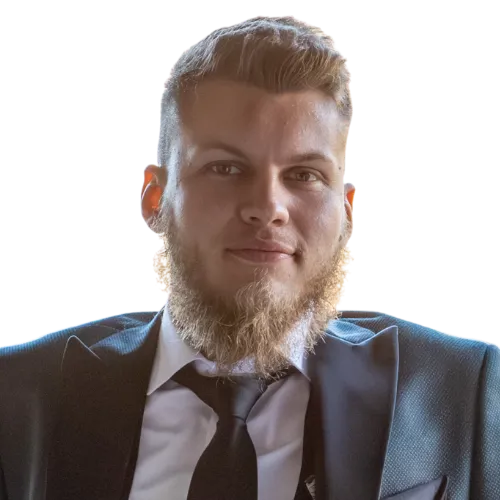
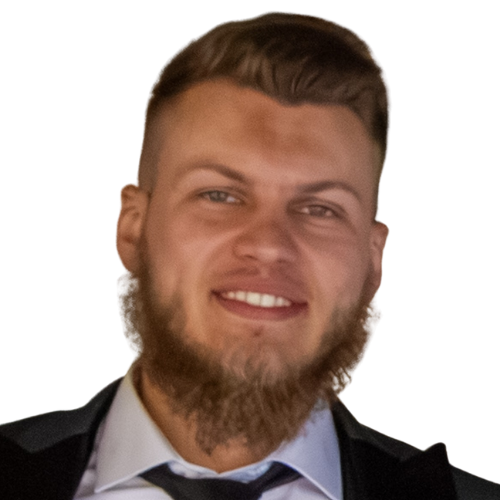
images update

diff --git a/src/app/app.html b/src/app/app.html
@@ -114,44 +114,68 @@
        ═══════════════════════════════════════════════ -->
   <section id="services" class="section services-section">
     <div class="section-container">
-      <h2 class="section-heading animate-on-scroll">
-        <span>{{ getHeaderParts('services').part1 }}</span>
-        <span>{{ getHeaderParts('services').part2 }}</span>
-      </h2>
-      <div class="services-grid">
-        @for (service of services; track service.nameBs) {
-          <div class="service-card animate-on-scroll">
-            <!-- Full background image -->
-            <img class="service-bg" [src]="service.image" [alt]="lang() === 'bs' ? service.nameBs : service.nameEn" loading="lazy">
-            <div class="service-overlay"></div>
+      <div class="services-header animate-on-scroll">
+        <h2 class="section-heading">
+          <span>{{ getHeaderParts('services').part1 }}</span>
+          <span>{{ getHeaderParts('services').part2 }}</span>
+        </h2>
+        <div class="carousel-nav">
+          <button class="carousel-arrow" (click)="scrollCarousel('servicesCarousel', 'prev')" aria-label="Previous service">
+            <svg width="20" height="20" viewBox="0 0 24 24" fill="none" stroke="currentColor" stroke-width="2"><polyline points="15 18 9 12 15 6"/></svg>
+          </button>
+          <button class="carousel-arrow" (click)="scrollCarousel('servicesCarousel', 'next')" aria-label="Next service">
+            <svg width="20" height="20" viewBox="0 0 24 24" fill="none" stroke="currentColor" stroke-width="2"><polyline points="9 18 15 12 9 6"/></svg>
+          </button>
+        </div>
+      </div>
 
-            <!-- Overlaid content at bottom -->
-            <div class="service-content">
-              <h3 class="service-title">{{ lang() === 'bs' ? service.nameBs : service.nameEn }}</h3>
-              <p class="service-desc">{{ lang() === 'bs' ? service.descBs : service.descEn }}</p>
+      <div class="services-carousel animate-on-scroll" id="servicesCarousel"
+           (scroll)="onCarouselScroll('servicesCarousel')"
+           (mouseenter)="onServicesMouseEnter()"
+           (mouseleave)="onServicesMouseLeave()"
+           (touchstart)="onServicesMouseEnter()"
+           (touchend)="onServicesTouchEnd()">
+        <div class="services-track">
+          @for (service of services; track service.nameBs) {
+            <div class="service-card">
+              <!-- Full background image -->
+              <img class="service-bg" [src]="service.image" [alt]="lang() === 'bs' ? service.nameBs : service.nameEn" loading="lazy">
+              <div class="service-overlay"></div>
 
-              <!-- Contact persons -->
-              <div class="service-contacts">
-                @for (contact of service.contacts; track contact.name) {
-                  <div class="service-contact">
-                    <img class="service-contact-photo" [src]="contact.image" [alt]="contact.name" loading="lazy">
-                    <div class="service-contact-info">
-                      <span class="service-contact-name">{{ contact.name }}</span>
-                      <span class="service-contact-role">{{ lang() === 'bs' ? contact.roleBs : contact.roleEn }}</span>
+              <!-- Overlaid content at bottom -->
+              <div class="service-content">
+                <h3 class="service-title">{{ lang() === 'bs' ? service.nameBs : service.nameEn }}</h3>
+                <p class="service-desc">{{ lang() === 'bs' ? service.descBs : service.descEn }}</p>
+
+                <!-- Contact persons -->
+                <div class="service-contacts">
+                  @for (contact of service.contacts; track contact.name) {
+                    <div class="service-contact">
+                      <img class="service-contact-photo" [src]="contact.image" [alt]="contact.name" loading="lazy">
+                      <div class="service-contact-info">
+                        <span class="service-contact-name">{{ contact.name }}</span>
+                        <span class="service-contact-role">{{ lang() === 'bs' ? contact.roleBs : contact.roleEn }}</span>
+                      </div>
+                      <div class="service-contact-btns">
+                        <a [href]="getPhoneHref(contact.phone)" class="service-btn" aria-label="Call">
+                          <svg width="14" height="14" viewBox="0 0 24 24" fill="none" stroke="currentColor" stroke-width="2"><path d="M22 16.92v3a2 2 0 01-2.18 2 19.79 19.79 0 01-8.63-3.07 19.5 19.5 0 01-6-6 19.79 19.79 0 01-3.07-8.67A2 2 0 014.11 2h3a2 2 0 012 1.72c.127.96.361 1.903.7 2.81a2 2 0 01-.45 2.11L8.09 9.91a16 16 0 006 6l1.27-1.27a2 2 0 012.11-.45c.907.339 1.85.573 2.81.7A2 2 0 0122 16.92z"/></svg>
+                        </a>
+                        <a [href]="getWhatsAppHref(contact.whatsapp)" target="_blank" rel="noopener" class="service-btn wa" aria-label="WhatsApp">
+                          <svg width="14" height="14" viewBox="0 0 24 24" fill="currentColor"><path d="M17.472 14.382c-.297-.149-1.758-.867-2.03-.967-.273-.099-.471-.148-.67.15-.197.297-.767.966-.94 1.164-.173.199-.347.223-.644.075-.297-.15-1.255-.463-2.39-1.475-.883-.788-1.48-1.761-1.653-2.059-.173-.297-.018-.458.13-.606.134-.133.298-.347.446-.52.149-.174.198-.298.298-.497.099-.198.05-.371-.025-.52-.075-.149-.669-1.612-.916-2.207-.242-.579-.487-.5-.669-.51-.173-.008-.371-.01-.57-.01-.198 0-.52.074-.792.372-.272.297-1.04 1.016-1.04 2.479 0 1.462 1.065 2.875 1.213 3.074.149.198 2.096 3.2 5.077 4.487.709.306 1.262.489 1.694.625.712.227 1.36.195 1.871.118.571-.085 1.758-.719 2.006-1.413.248-.694.248-1.289.173-1.413-.074-.124-.272-.198-.57-.347m-5.421 7.403h-.004a9.87 9.87 0 01-5.031-1.378l-.361-.214-3.741.982.998-3.648-.235-.374a9.86 9.86 0 01-1.51-5.26c.001-5.45 4.436-9.884 9.888-9.884 2.64 0 5.122 1.03 6.988 2.898a9.825 9.825 0 012.893 6.994c-.003 5.45-4.437 9.884-9.885 9.884m8.413-18.297A11.815 11.815 0 0012.05 0C5.495 0 .16 5.335.157 11.892c0 2.096.547 4.142 1.588 5.945L.057 24l6.305-1.654a11.882 11.882 0 005.683 1.448h.005c6.554 0 11.89-5.335 11.893-11.893a11.821 11.821 0 00-3.48-8.413z"/></svg>
+                        </a>
+                      </div>
                     </div>
-                    <div class="service-contact-btns">
-                      <a [href]="getPhoneHref(contact.phone)" class="service-btn" aria-label="Call">
-                        <svg width="14" height="14" viewBox="0 0 24 24" fill="none" stroke="currentColor" stroke-width="2"><path d="M22 16.92v3a2 2 0 01-2.18 2 19.79 19.79 0 01-8.63-3.07 19.5 19.5 0 01-6-6 19.79 19.79 0 01-3.07-8.67A2 2 0 014.11 2h3a2 2 0 012 1.72c.127.96.361 1.903.7 2.81a2 2 0 01-.45 2.11L8.09 9.91a16 16 0 006 6l1.27-1.27a2 2 0 012.11-.45c.907.339 1.85.573 2.81.7A2 2 0 0122 16.92z"/></svg>
-                      </a>
-                      <a [href]="getWhatsAppHref(contact.whatsapp)" target="_blank" rel="noopener" class="service-btn wa" aria-label="WhatsApp">
-                        <svg width="14" height="14" viewBox="0 0 24 24" fill="currentColor"><path d="M17.472 14.382c-.297-.149-1.758-.867-2.03-.967-.273-.099-.471-.148-.67.15-.197.297-.767.966-.94 1.164-.173.199-.347.223-.644.075-.297-.15-1.255-.463-2.39-1.475-.883-.788-1.48-1.761-1.653-2.059-.173-.297-.018-.458.13-.606.134-.133.298-.347.446-.52.149-.174.198-.298.298-.497.099-.198.05-.371-.025-.52-.075-.149-.669-1.612-.916-2.207-.242-.579-.487-.5-.669-.51-.173-.008-.371-.01-.57-.01-.198 0-.52.074-.792.372-.272.297-1.04 1.016-1.04 2.479 0 1.462 1.065 2.875 1.213 3.074.149.198 2.096 3.2 5.077 4.487.709.306 1.262.489 1.694.625.712.227 1.36.195 1.871.118.571-.085 1.758-.719 2.006-1.413.248-.694.248-1.289.173-1.413-.074-.124-.272-.198-.57-.347m-5.421 7.403h-.004a9.87 9.87 0 01-5.031-1.378l-.361-.214-3.741.982.998-3.648-.235-.374a9.86 9.86 0 01-1.51-5.26c.001-5.45 4.436-9.884 9.888-9.884 2.64 0 5.122 1.03 6.988 2.898a9.825 9.825 0 012.893 6.994c-.003 5.45-4.437 9.884-9.885 9.884m8.413-18.297A11.815 11.815 0 0012.05 0C5.495 0 .16 5.335.157 11.892c0 2.096.547 4.142 1.588 5.945L.057 24l6.305-1.654a11.882 11.882 0 005.683 1.448h.005c6.554 0 11.89-5.335 11.893-11.893a11.821 11.821 0 00-3.48-8.413z"/></svg>
-                      </a>
-                    </div>
-                  </div>
-                }
+                  }
+                </div>
               </div>
             </div>
-          </div>
+          }
+        </div>
+      </div>
+
+      <div class="carousel-dots animate-on-scroll">
+        @for (service of services; track service.nameBs; let i = $index) {
+          <button class="carousel-dot" [class.active]="activeServiceIndex() === i" (click)="goToSlide('servicesCarousel', i)" [attr.aria-label]="'Go to service ' + (i + 1)"></button>
         }
       </div>
     </div>

diff --git a/src/app/app.ts b/src/app/app.ts
@@ -268,7 +268,7 @@ const SERVICES: Service[] = [
         roleEn: 'Upholstery Specialist',
         phone: '+387 61 823 875',
         whatsapp: '38761823875',
-        image: 'assets/staff/3.png',
+        image: 'assets/staff/4.png',
       },
     ],
   },
@@ -283,10 +283,10 @@ interface Stat {
 }
 
 const STATS: Stat[] = [
-  { value: 5, suffix: '+', labelBs: 'Godina iskustva', labelEn: 'Years Experience' },
+  { value: 30, suffix: '+', labelBs: 'Godina iskustva', labelEn: 'Years Experience' },
   { value: 4, suffix: '', labelBs: 'Usluge', labelEn: 'Services' },
   { value: 5, suffix: '.0', labelBs: 'Google ocjena', labelEn: 'Google Rating' },
-  { value: 1000, suffix: '+', labelBs: 'Zadovoljnih klijenata', labelEn: 'Happy Clients' },
+  { value: 5000, suffix: '+', labelBs: 'Zadovoljnih klijenata', labelEn: 'Happy Clients' },
 ];
 
 @Component({
@@ -303,6 +303,10 @@ export class App implements AfterViewInit, OnDestroy {
   private autoPlayInterval: ReturnType<typeof setInterval> | null = null;
   private autoPlayResumeTimeout: ReturnType<typeof setTimeout> | null = null;
   private autoPlayPaused = false;
+  private servicesAutoPlayInterval: ReturnType<typeof setInterval> | null = null;
+  private servicesAutoPlayResumeTimeout: ReturnType<typeof setTimeout> | null = null;
+  private servicesAutoPlayPaused = false;
+  private servicesDesktopMq: MediaQueryList | null = null;
 
   // ── State ──
   lang = signal<'bs' | 'en'>('bs');
@@ -386,8 +390,9 @@ export class App implements AfterViewInit, OnDestroy {
     // Header scroll listener + back-to-top
     window.addEventListener('scroll', this.onScroll, { passive: true });
 
-    // Auto-play carousel
+    // Auto-play carousels
     this.startAutoPlay();
+    this.setupServicesAutoPlay();
   }
 
   ngOnDestroy(): void {
@@ -395,9 +400,12 @@ export class App implements AfterViewInit, OnDestroy {
     this.statsObserver?.disconnect();
     if (isPlatformBrowser(this.platformId)) {
       window.removeEventListener('scroll', this.onScroll);
+      this.teardownServicesAutoPlay();
     }
     this.stopAutoPlay();
     this.clearAutoPlayResumeTimeout();
+    this.stopServicesAutoPlay();
+    this.clearServicesAutoPlayResumeTimeout();
   }
 
   // ── Methods ──
@@ -554,12 +562,17 @@ export class App implements AfterViewInit, OnDestroy {
   // ── Carousel Navigation ──
   activeReviewIndex = signal(0);
   activeGalleryIndex = signal(0);
+  activeServiceIndex = signal(0);
+
+  private getCarouselTrack(carousel: Element): HTMLElement | null {
+    return carousel.querySelector('.reviews-track, .gallery-track, .services-track') as HTMLElement | null;
+  }
 
   scrollCarousel(carouselId: string, direction: 'prev' | 'next'): void {
     const carousel = this.el.nativeElement.querySelector(`#${carouselId}`);
     if (!carousel) return;
 
-    const track = carousel.querySelector('.reviews-track, .gallery-track') as HTMLElement;
+    const track = this.getCarouselTrack(carousel);
     if (!track) return;
 
     const firstChild = track.firstElementChild as HTMLElement;
@@ -584,7 +597,7 @@ export class App implements AfterViewInit, OnDestroy {
     const carousel = this.el.nativeElement.querySelector(`#${carouselId}`);
     if (!carousel) return;
 
-    const track = carousel.querySelector('.reviews-track, .gallery-track') as HTMLElement;
+    const track = this.getCarouselTrack(carousel);
     if (!track) return;
 
     const firstChild = track.firstElementChild as HTMLElement;
@@ -597,6 +610,8 @@ export class App implements AfterViewInit, OnDestroy {
 
     if (carouselId === 'reviewsCarousel') {
       this.activeReviewIndex.set(index);
+    } else if (carouselId === 'servicesCarousel') {
+      this.activeServiceIndex.set(index);
     } else {
       this.activeGalleryIndex.set(index);
     }
@@ -606,7 +621,7 @@ export class App implements AfterViewInit, OnDestroy {
     const carousel = this.el.nativeElement.querySelector(`#${carouselId}`);
     if (!carousel) return;
 
-    const track = carousel.querySelector('.reviews-track, .gallery-track') as HTMLElement;
+    const track = this.getCarouselTrack(carousel);
     if (!track) return;
 
     const firstChild = track.firstElementChild as HTMLElement;
@@ -617,6 +632,8 @@ export class App implements AfterViewInit, OnDestroy {
 
     if (carouselId === 'reviewsCarousel') {
       this.activeReviewIndex.set(index);
+    } else if (carouselId === 'servicesCarousel') {
+      this.activeServiceIndex.set(index);
     } else {
       this.activeGalleryIndex.set(index);
     }
@@ -665,6 +682,76 @@ export class App implements AfterViewInit, OnDestroy {
     if (this.autoPlayResumeTimeout) {
       clearTimeout(this.autoPlayResumeTimeout);
       this.autoPlayResumeTimeout = null;
+    }
+  }
+
+  // ── Auto-play Services Carousel (desktop only) ──
+  private setupServicesAutoPlay(): void {
+    this.servicesDesktopMq = window.matchMedia('(min-width: 1024px)');
+    this.syncServicesAutoPlay();
+    this.servicesDesktopMq.addEventListener('change', this.onServicesDesktopMqChange);
+  }
+
+  private teardownServicesAutoPlay(): void {
+    this.servicesDesktopMq?.removeEventListener('change', this.onServicesDesktopMqChange);
+    this.servicesDesktopMq = null;
+  }
+
+  private onServicesDesktopMqChange = (): void => {
+    this.syncServicesAutoPlay();
+  };
+
+  private syncServicesAutoPlay(): void {
+    if (this.servicesDesktopMq?.matches) {
+      this.startServicesAutoPlay();
+    } else {
+      this.stopServicesAutoPlay();
+      this.activeServiceIndex.set(0);
+      const carousel = this.el.nativeElement.querySelector('#servicesCarousel') as HTMLElement | null;
+      carousel?.scrollTo({ left: 0 });
+    }
+  }
+
+  private startServicesAutoPlay(): void {
+    if (this.servicesAutoPlayInterval) return;
+    this.servicesAutoPlayInterval = setInterval(() => {
+      if (this.servicesAutoPlayPaused) return;
+      if (!this.servicesDesktopMq?.matches) return;
+      const currentIndex = this.activeServiceIndex();
+      const nextIndex = (currentIndex + 1) % this.services.length;
+      this.goToSlide('servicesCarousel', nextIndex);
+    }, 5000);
+  }
+
+  private stopServicesAutoPlay(): void {
+    if (this.servicesAutoPlayInterval) {
+      clearInterval(this.servicesAutoPlayInterval);
+      this.servicesAutoPlayInterval = null;
+    }
+  }
+
+  onServicesMouseEnter(): void {
+    this.clearServicesAutoPlayResumeTimeout();
+    this.servicesAutoPlayPaused = true;
+  }
+
+  onServicesMouseLeave(): void {
+    this.servicesAutoPlayPaused = false;
+  }
+
+  onServicesTouchEnd(): void {
+    this.clearServicesAutoPlayResumeTimeout();
+    this.servicesAutoPlayPaused = true;
+    this.servicesAutoPlayResumeTimeout = setTimeout(() => {
+      this.servicesAutoPlayPaused = false;
+      this.servicesAutoPlayResumeTimeout = null;
+    }, 8000);
+  }
+
+  private clearServicesAutoPlayResumeTimeout(): void {
+    if (this.servicesAutoPlayResumeTimeout) {
+      clearTimeout(this.servicesAutoPlayResumeTimeout);
+      this.servicesAutoPlayResumeTimeout = null;
     }
   }
 }

diff --git a/src/app/sections/_responsive.css b/src/app/sections/_responsive.css
@@ -24,8 +24,8 @@
     padding: 3.5rem 2rem;
   }
 
-  /* Services: 2 columns on tablet, 4 on desktop */
-  .services-grid {
+  /* Services: 2 columns on tablet */
+  .services-track {
     grid-template-columns: repeat(2, 1fr);
     gap: 1.25rem;
   }
@@ -162,9 +162,36 @@
     min-height: 480px;
   }
 
-  /* Services: refined desktop square */
-  .services-grid {
-    grid-template-columns: repeat(4, 1fr);
+  /* Services: desktop carousel (~3 visible) */
+  .services-section .carousel-nav {
+    display: flex;
+    flex-shrink: 0;
+    margin-top: 0.25rem;
+  }
+
+  .services-section .carousel-dots {
+    display: flex;
+  }
+
+  .services-carousel {
+    margin: 0;
+    padding: 0;
+    overflow-x: auto;
+    scroll-snap-type: x proximity;
+    overscroll-behavior-x: contain;
+    -webkit-overflow-scrolling: touch;
+    scrollbar-width: none;
+    -ms-overflow-style: none;
+  }
+
+  .services-carousel::-webkit-scrollbar {
+    display: none;
+  }
+
+  .services-track {
+    display: flex;
+    gap: 1.25rem;
+    padding-bottom: 0.5rem;
   }
 
   .team-grid {
@@ -172,6 +199,9 @@
   }
 
   .service-card {
+    flex: 0 0 31%;
+    max-width: 480px;
+    scroll-snap-align: start;
     aspect-ratio: 1 / 1;
   }
 

diff --git a/src/app/sections/_services.css b/src/app/sections/_services.css
@@ -5,7 +5,29 @@
   background: var(--bg-secondary);
 }
 
-.services-grid {
+.services-header {
+  display: flex;
+  align-items: flex-start;
+  justify-content: space-between;
+  gap: 1rem;
+  margin-bottom: 0;
+}
+
+.services-header .section-heading {
+  margin-bottom: 2.5rem;
+}
+
+/* Nav + dots only on desktop carousel */
+.services-section .carousel-nav,
+.services-section .carousel-dots {
+  display: none;
+}
+
+.services-carousel {
+  overflow: visible;
+}
+
+.services-track {
   display: grid;
   grid-template-columns: 1fr;
   gap: 1.5rem;
